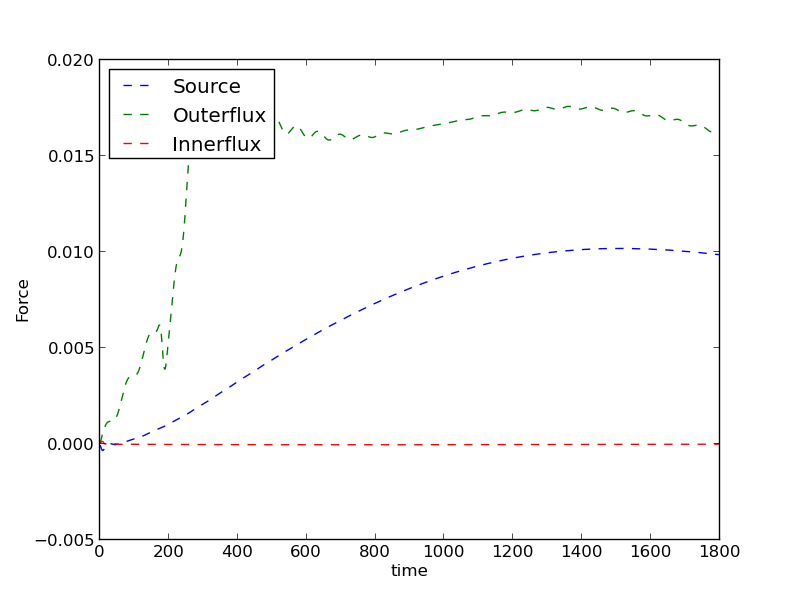
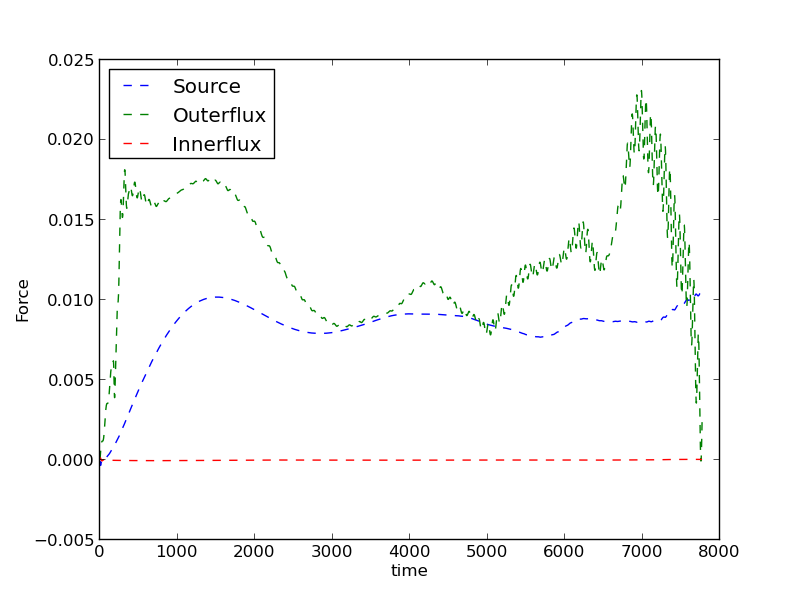
updates to boosted bh eg

diff --git a/FixedBGExamples/IsoBoostedBHComplexScalar/Run4/plot.py b/FixedBGExamples/IsoBoostedBHComplexScalar/Run4/plot.py
@@ -1,0 +1,79 @@
+# A simple python script to plot the GW
+# signals over time, for a chosen mode
+
+import numpy as np;
+import matplotlib.pyplot as plt;
+
+# output data from running merger
+M = 1.0
+mu = 0.05
+v = 0.4
+r = 500
+symmetry = 4
+data1 = np.loadtxt("RhoIntegral.dat")
+data2 = np.loadtxt("Force_integrals.dat")
+
+# make the plot
+fig = plt.figure()
+
+# flux dataset out
+labelstring = "integral outer Flux dt"
+timedata = data2[:,0]
+Fdata = data2[:,3]
+deltaE = np.zeros_like(Fdata)
+for i, F in enumerate(Fdata) :
+   if i==0 :
+      deltaE[i] = 0.0
+   else :
+      deltaE[i] = deltaE[i-1] + F * (timedata[i] - timedata[i-1])
+plt.plot(timedata, deltaE, '--', lw = 1.0, label=labelstring)
+OuterFluxData = deltaE
+
+# S_x dataset
+labelstring = "Delta S_x, v = " + str(v) + " mu = " + str(mu) + " r = " + str(r)
+timedata = data1[:,0]
+Mdata = data1[:,2] - data1[0,2]
+Mdata = - symmetry * Mdata
+plt.plot(timedata, Mdata, '--', lw = 1.0, label=labelstring)
+
+# flux dataset in
+labelstring = "integral inner Flux dt"
+timedata = data2[:,0]
+Fdata = data2[:,1]
+deltaE = np.zeros_like(Fdata)
+for i, F in enumerate(Fdata) :
+   if i==0 :
+      deltaE[i] = 0.0
+   else :
+      deltaE[i] = deltaE[i-1] + F * (timedata[i] - timedata[i-1])
+plt.plot(timedata, deltaE, '--', lw = 1.0, label=labelstring)
+InnerFluxData = deltaE
+
+# mass dataset - source
+labelstring = "integral Source dt"
+timedata = data1[:,0]
+Fdata = data1[:,1]
+deltaE = np.zeros_like(Fdata)
+for i, F in enumerate(Fdata) :
+   if i==0 :
+      deltaE[i] = 0.0
+   else :
+      deltaE[i] = deltaE[i-1] + F * (timedata[i] - timedata[i-1])
+SourceData = deltaE * symmetry
+plt.plot(timedata, SourceData, '--', lw = 1.0, label=labelstring)
+
+# combine check
+labelstring = "Delta S_x = InnerFlux - Outerflux + Source"
+Fdata = - OuterFluxData + 1.0 * SourceData + 1.0 * InnerFluxData
+plt.plot(timedata, Fdata, '-', lw = 1.0, label=labelstring)
+
+# make the plot look nice
+plt.xlabel("time")
+plt.ylabel("xMom")
+#plt.xlim(0, 1000)
+#plt.ylim(1e-1, 1e2)
+plt.legend(loc=1)
+
+# save as png image
+filename = "EvsT" + "_mu" + str(mu) + ".png"
+plt.savefig(filename)

diff --git a/FixedBGExamples/IsoBoostedBHComplexScalar/plotsource.py b/FixedBGExamples/IsoBoostedBHComplexScalar/plotsource.py
@@ -15,12 +15,12 @@ symmetry = 4
 fig = plt.figure()
 
 # for v=0.4
-data1 = np.loadtxt("Run8/RhoIntegral.dat")
-labelstring = "integral Source dV v = 0.8"
-timedata = data1[:,0]
-Fdata = data1[:,1]
-SourceData = Fdata * symmetry
-plt.plot(timedata, SourceData, '--', lw = 1.0, label=labelstring)
+#data1 = np.loadtxt("Run8/RhoIntegral.dat")
+#labelstring = "integral Source dV v = 0.8"
+#timedata = data1[:,0]
+#Fdata = data1[:,1]
+#SourceData = Fdata * symmetry
+#plt.plot(timedata, SourceData, '--', lw = 1.0, label=labelstring)
 
 # for v=0.4
 data1 = np.loadtxt("Run7/RhoIntegral.dat")
@@ -31,12 +31,12 @@ SourceData = Fdata * symmetry
 plt.plot(timedata, SourceData, '--', lw = 1.0, label=labelstring)
 
 # for v=0.4
-data1 = np.loadtxt("Run6/RhoIntegral.dat")
-labelstring = "integral Source dV v = 0.6"
-timedata = data1[:,0]
-Fdata = data1[:,1]
-SourceData = Fdata * symmetry
-plt.plot(timedata, SourceData, '--', lw = 1.0, label=labelstring)
+#data1 = np.loadtxt("Run6/RhoIntegral.dat")
+#labelstring = "integral Source dV v = 0.6"
+#timedata = data1[:,0]
+#Fdata = data1[:,1]
+#SourceData = Fdata * symmetry
+#plt.plot(timedata, SourceData, '--', lw = 1.0, label=labelstring)
 
 # mass dataset - source
 data1 = np.loadtxt("Run5/RhoIntegral.dat")
@@ -65,7 +65,7 @@ plt.plot(timedata, SourceData, '--', lw = 1.0, label=labelstring)
 # make the plot look nice
 plt.xlabel("time")
 plt.ylabel("F")
-#plt.xlim(0, 1000)
+plt.xlim(0, 5000)
 #plt.ylim(1e-1, 1e2)
 plt.legend(loc=3)
 

diff --git a/FixedBGExamples/IsoBoostedBHComplexScalar/Run4/plotsource.py b/FixedBGExamples/IsoBoostedBHComplexScalar/Run4/plotsource.py
@@ -1,0 +1,47 @@
+# A simple python script to plot the GW
+# signals over time, for a chosen mode
+
+import numpy as np;
+import matplotlib.pyplot as plt;
+
+# output data from running merger
+M = 1.0
+mu = 0.05
+v = 0.1
+r = 3000
+symmetry = 4
+#data1a = np.loadtxt("RhoIntegralOld.dat")
+data1 = np.loadtxt("RhoIntegral.dat")
+data2 = np.loadtxt("Force_integrals.dat")
+
+# make the plot
+fig = plt.figure()
+
+# flux dataset out
+labelstring = "Source"
+timedata = data1[:,0]
+Fdata = 4*data1[:,1]
+plt.plot(timedata, Fdata, '--', lw = 1.0, label=labelstring)
+
+# flux dataset out
+labelstring = "Outerflux"
+timedata = data2[:,0]
+Fdata = data2[:,3]
+plt.plot(timedata, Fdata, '--', lw = 1.0, label=labelstring)
+
+# flux dataset out
+labelstring = "Innerflux"
+timedata = data2[:,0]
+Fdata = data2[:,1]
+plt.plot(timedata, Fdata, '--', lw = 1.0, label=labelstring)
+
+# make the plot look nice
+plt.xlabel("time")
+plt.ylabel("Force")
+#plt.xlim(0, 1000)
+#plt.ylim(1e-1, 1e2)
+plt.legend(loc=2)
+
+# save as png image
+filename = "FvsT" + "_mu" + str(mu) + ".png"
+plt.savefig(filename)

diff --git a/FixedBGExamples/IsoBoostedBHComplexScalar/Run4/plotflux.py b/FixedBGExamples/IsoBoostedBHComplexScalar/Run4/plotflux.py
@@ -1,0 +1,40 @@
+# A simple python script to plot the GW
+# signals over time, for a chosen mode
+
+import numpy as np;
+import matplotlib.pyplot as plt;
+
+# output data from running merger
+M = 1.0
+mu = 0.05
+v = 0.1
+r = 500
+symmetry = 4
+data1 = np.loadtxt("RhoIntegral.dat")
+data2 = np.loadtxt("Force_integrals.dat")
+
+# make the plot
+fig = plt.figure()
+
+# flux dataset out
+labelstring = "outer Flux"
+timedata = data2[:,0]
+Fdata = data2[:,3]
+plt.plot(timedata, Fdata, '--', lw = 1.0, label=labelstring)
+
+# flux dataset in
+labelstring = "inner Flux"
+timedata = data2[:,0]
+Fdata = data2[:,1]
+plt.plot(timedata, Fdata, '--', lw = 1.0, label=labelstring)
+
+# make the plot look nice
+plt.xlabel("time")
+plt.ylabel("Force")
+#plt.xlim(0, 1000)
+#plt.ylim(1e-1, 1e2)
+plt.legend(loc=2)
+
+# save as png image
+filename = "FvsT" + "_mu" + str(mu) + ".png"
+plt.savefig(filename)
